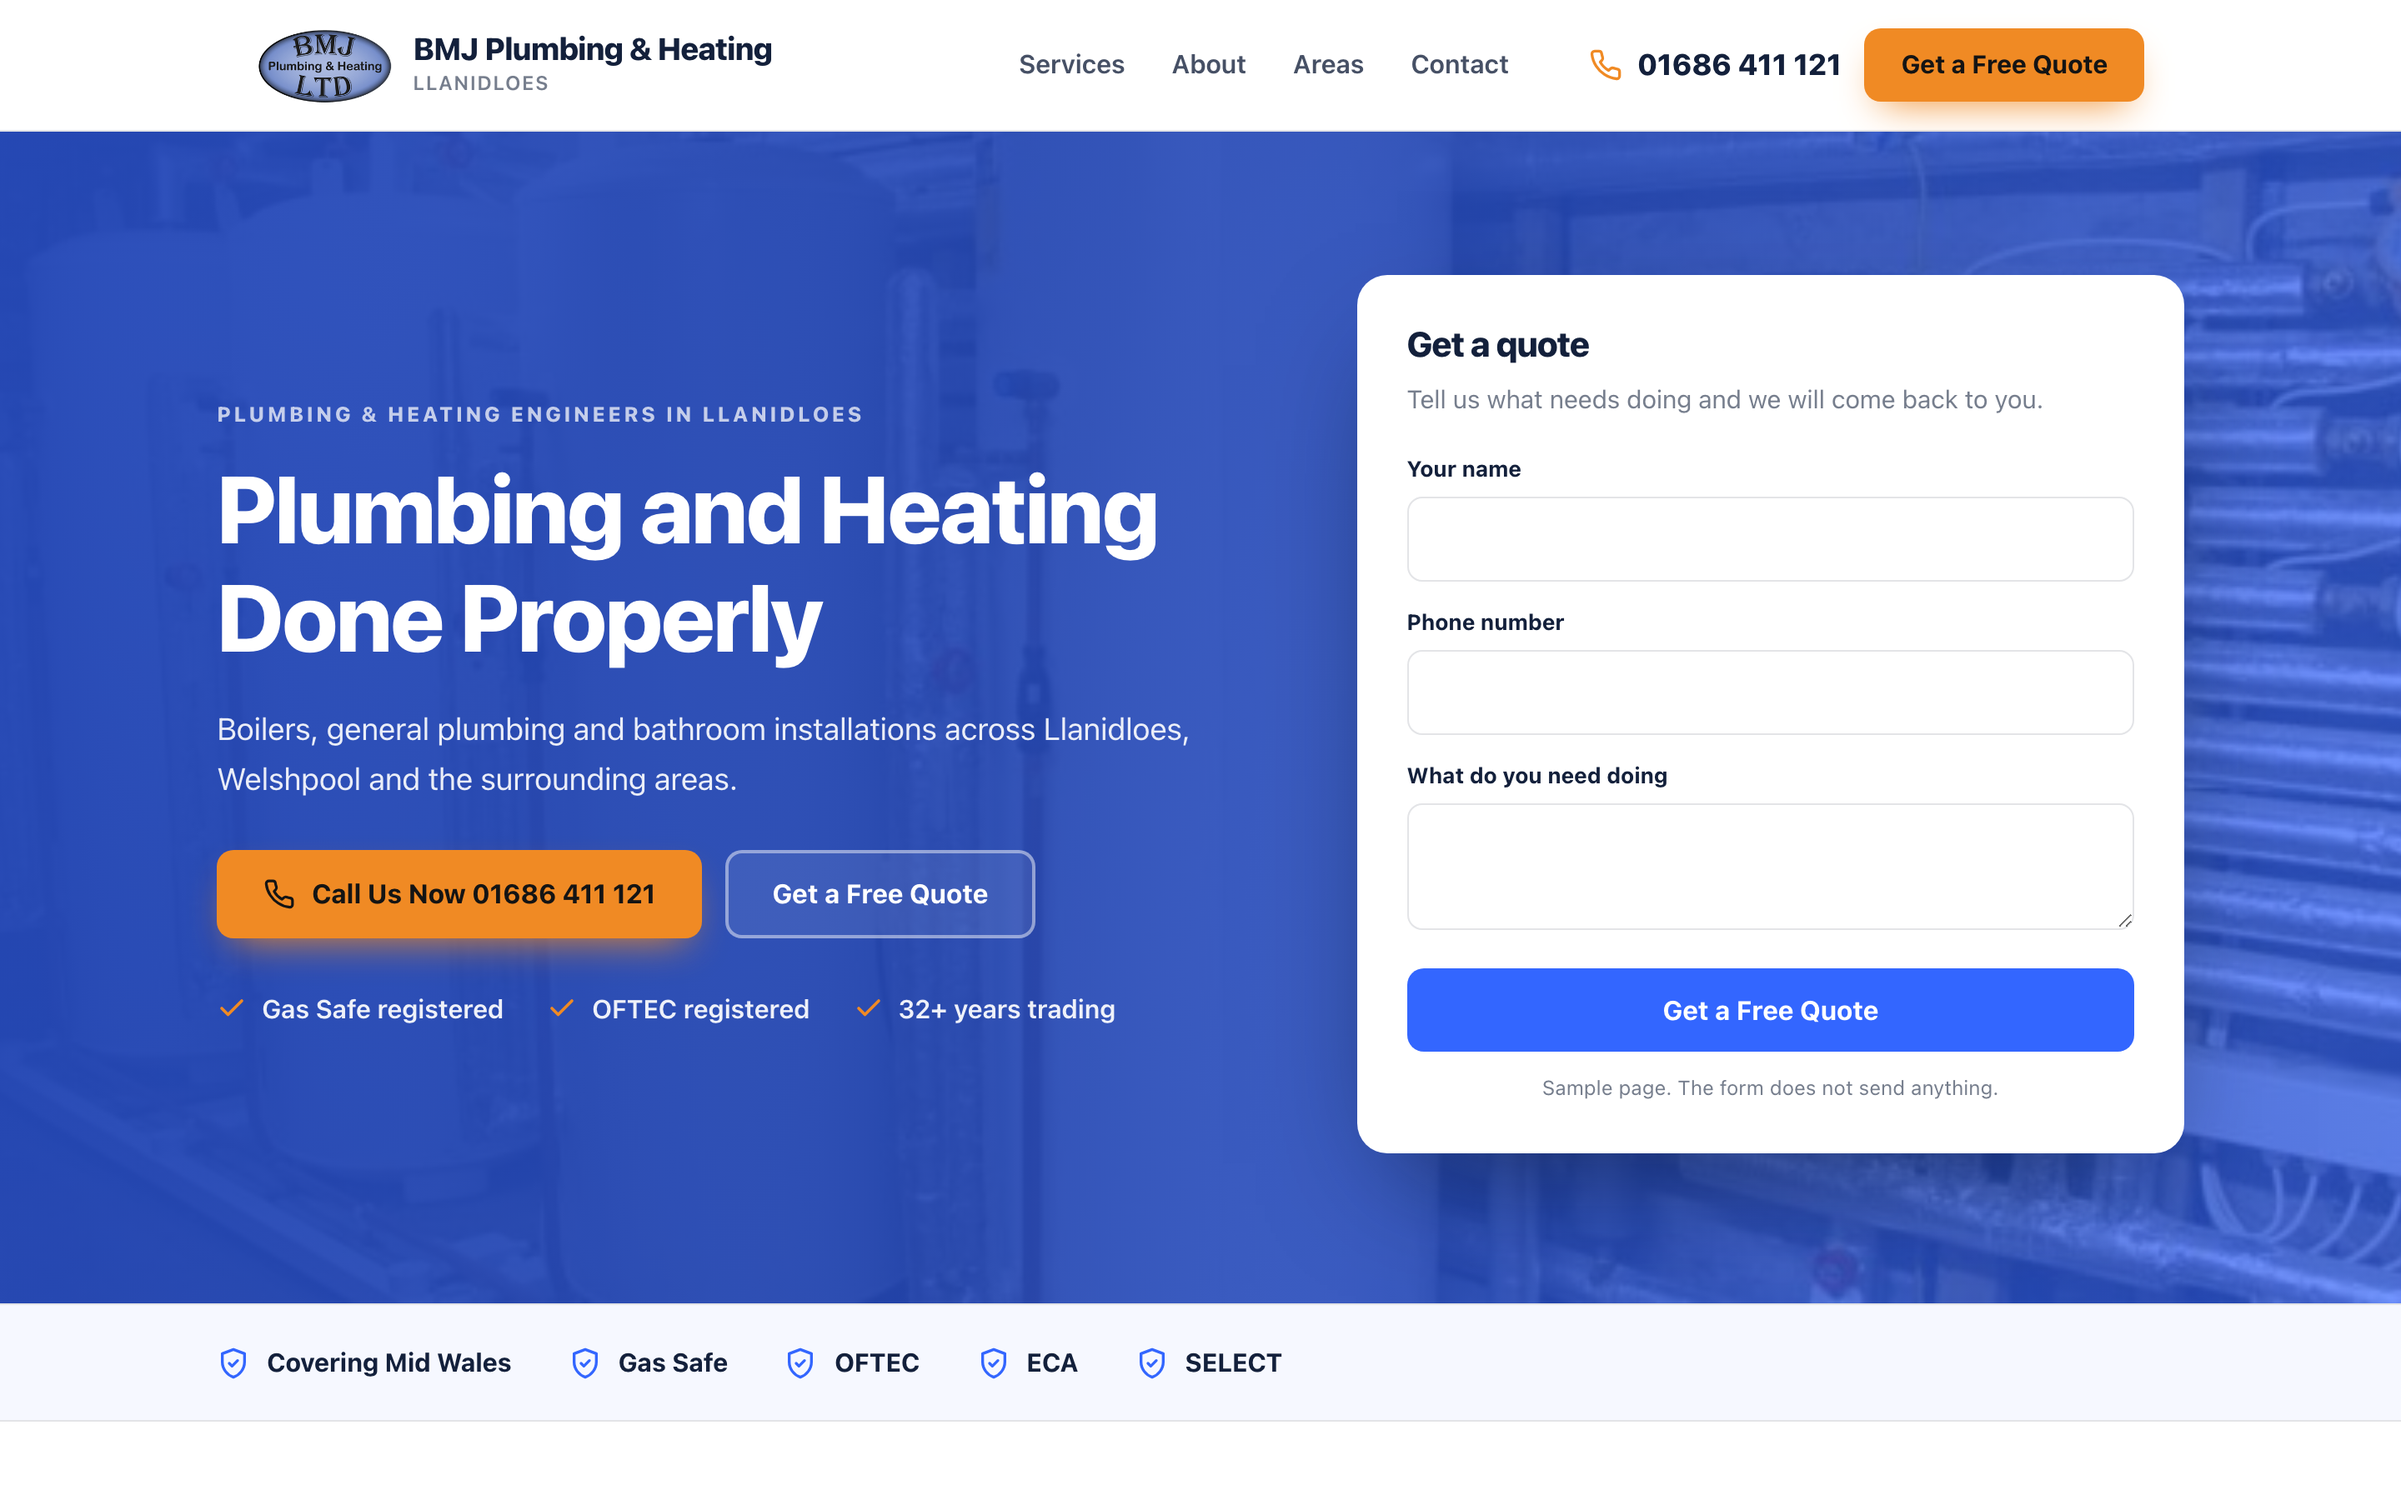
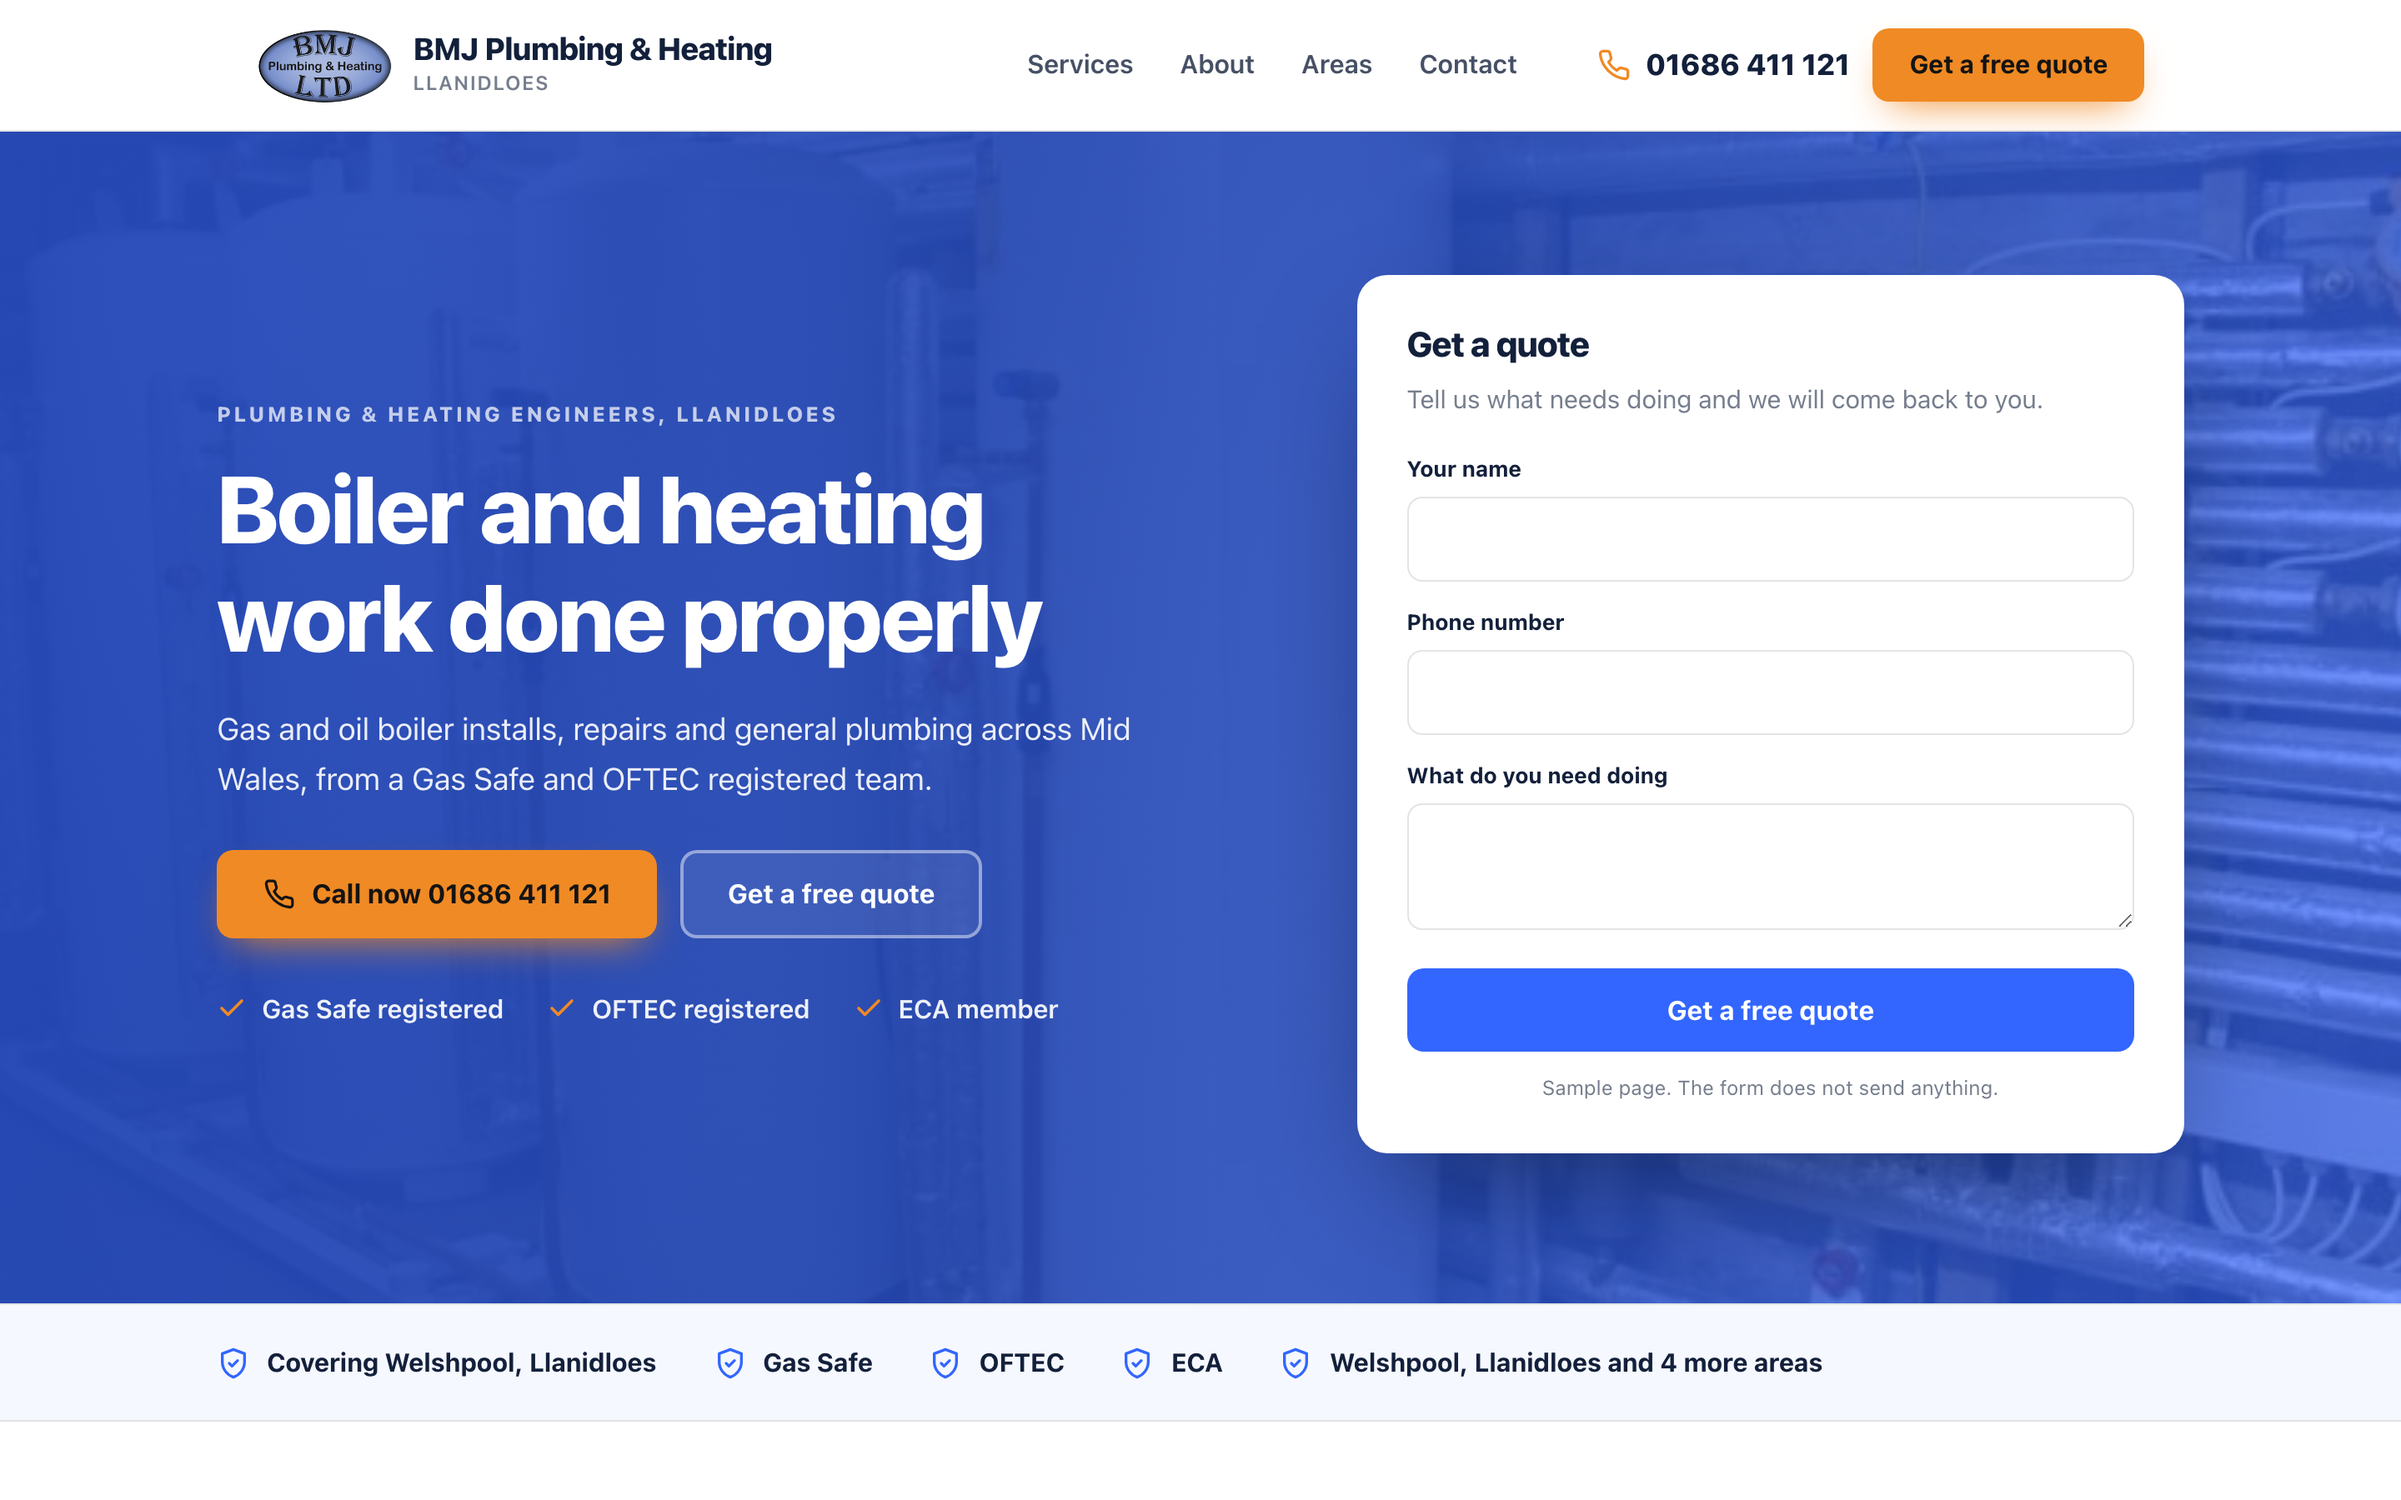
Sample homepage for BMJ Plumbing & Heating

diff --git a/docs/ce2e7be952/index.html b/docs/ce2e7be952/index.html
@@ -6,11 +6,11 @@
 <meta name="robots" content="noindex,nofollow">
 <meta name="aso-build" content="">
 <title>BMJ Plumbing &amp; Heating sample homepage</title>
-<meta name="description" content="Boilers, general plumbing and bathroom installations across Llanidloes, Welshpool and the surrounding areas.">
+<meta name="description" content="Gas and oil boiler installs, repairs and general plumbing across Mid Wales, from a Gas Safe and OFTEC registered team.">
 <link rel="canonical" href="https://markygff.github.io/aso-mockups/ce2e7be952/">
 <meta property="og:type" content="website">
 <meta property="og:title" content="BMJ Plumbing &amp; Heating sample homepage">
-<meta property="og:description" content="Boilers, general plumbing and bathroom installations across Llanidloes, Welshpool and the surrounding areas.">
+<meta property="og:description" content="Gas and oil boiler installs, repairs and general plumbing across Mid Wales, from a Gas Safe and OFTEC registered team.">
 <meta property="og:url" content="https://markygff.github.io/aso-mockups/ce2e7be952/">
 <meta property="og:image" content="img/p01.jpg"><style>
 :root{
@@ -130,7 +130,7 @@ p{margin:0}
     </nav>
     <div class="header-cta">
       <a class="tel" href="tel:+441686411121"><svg viewBox="0 0 24 24" fill="none" stroke="currentColor" stroke-width="2" stroke-linecap="round" stroke-linejoin="round" aria-hidden="true"><path d="M22 16.9v3a2 2 0 0 1-2.2 2 19.8 19.8 0 0 1-8.6-3.1 19.5 19.5 0 0 1-6-6 19.8 19.8 0 0 1-3.1-8.7A2 2 0 0 1 4.1 2h3a2 2 0 0 1 2 1.7c.1 1 .4 1.9.7 2.8a2 2 0 0 1-.5 2.1L8.1 9.9a16 16 0 0 0 6 6l1.3-1.2a2 2 0 0 1 2.1-.5c.9.3 1.8.6 2.8.7a2 2 0 0 1 1.7 2z"/></svg><span>01686 411 121</span></a>
-      <span class="btn btn-accent">Get a Free Quote</span>
+      <span class="btn btn-accent">Get a free quote</span>
     </div>
   </div>
 </header>
@@ -139,15 +139,15 @@ p{margin:0}
   <div class="hero-bg"><img src="img/p01.jpg" alt="Plumbing" width="1600" height="900"></div>
   <div class="wrap hero-in">
     <div>
-      <p class="eyebrow">Plumbing &amp; Heating Engineers in Llanidloes</p>
-      <h1>Plumbing and Heating Done Properly</h1>
-      <p class="hero-sub">Boilers, general plumbing and bathroom installations across Llanidloes, Welshpool and the surrounding areas.</p>
+      <p class="eyebrow">Plumbing &amp; heating engineers, Llanidloes</p>
+      <h1>Boiler and heating work done properly</h1>
+      <p class="hero-sub">Gas and oil boiler installs, repairs and general plumbing across Mid Wales, from a Gas Safe and OFTEC registered team.</p>
       <div class="hero-actions">
-        <span class="btn btn-accent"><svg viewBox="0 0 24 24" fill="none" stroke="currentColor" stroke-width="2" stroke-linecap="round" stroke-linejoin="round" aria-hidden="true"><path d="M22 16.9v3a2 2 0 0 1-2.2 2 19.8 19.8 0 0 1-8.6-3.1 19.5 19.5 0 0 1-6-6 19.8 19.8 0 0 1-3.1-8.7A2 2 0 0 1 4.1 2h3a2 2 0 0 1 2 1.7c.1 1 .4 1.9.7 2.8a2 2 0 0 1-.5 2.1L8.1 9.9a16 16 0 0 0 6 6l1.3-1.2a2 2 0 0 1 2.1-.5c.9.3 1.8.6 2.8.7a2 2 0 0 1 1.7 2z"/></svg>Call Us Now 01686 411 121</span>
-        <span class="btn btn-ghost">Get a Free Quote</span>
+        <span class="btn btn-accent"><svg viewBox="0 0 24 24" fill="none" stroke="currentColor" stroke-width="2" stroke-linecap="round" stroke-linejoin="round" aria-hidden="true"><path d="M22 16.9v3a2 2 0 0 1-2.2 2 19.8 19.8 0 0 1-8.6-3.1 19.5 19.5 0 0 1-6-6 19.8 19.8 0 0 1-3.1-8.7A2 2 0 0 1 4.1 2h3a2 2 0 0 1 2 1.7c.1 1 .4 1.9.7 2.8a2 2 0 0 1-.5 2.1L8.1 9.9a16 16 0 0 0 6 6l1.3-1.2a2 2 0 0 1 2.1-.5c.9.3 1.8.6 2.8.7a2 2 0 0 1 1.7 2z"/></svg>Call now 01686 411 121</span>
+        <span class="btn btn-ghost">Get a free quote</span>
       </div>
       <ul class="hero-bullets">
-<li><svg viewBox="0 0 24 24" fill="none" stroke="currentColor" stroke-width="2.4" stroke-linecap="round" stroke-linejoin="round" aria-hidden="true"><path d="M20 6 9 17l-5-5"/></svg><span>Gas Safe registered</span></li><li><svg viewBox="0 0 24 24" fill="none" stroke="currentColor" stroke-width="2.4" stroke-linecap="round" stroke-linejoin="round" aria-hidden="true"><path d="M20 6 9 17l-5-5"/></svg><span>OFTEC registered</span></li><li><svg viewBox="0 0 24 24" fill="none" stroke="currentColor" stroke-width="2.4" stroke-linecap="round" stroke-linejoin="round" aria-hidden="true"><path d="M20 6 9 17l-5-5"/></svg><span>32+ years trading</span></li>      </ul>
+<li><svg viewBox="0 0 24 24" fill="none" stroke="currentColor" stroke-width="2.4" stroke-linecap="round" stroke-linejoin="round" aria-hidden="true"><path d="M20 6 9 17l-5-5"/></svg><span>Gas Safe registered</span></li><li><svg viewBox="0 0 24 24" fill="none" stroke="currentColor" stroke-width="2.4" stroke-linecap="round" stroke-linejoin="round" aria-hidden="true"><path d="M20 6 9 17l-5-5"/></svg><span>OFTEC registered</span></li><li><svg viewBox="0 0 24 24" fill="none" stroke="currentColor" stroke-width="2.4" stroke-linecap="round" stroke-linejoin="round" aria-hidden="true"><path d="M20 6 9 17l-5-5"/></svg><span>ECA member</span></li>      </ul>
     </div>
     <div class="quote-card">
       <h3>Get a quote</h3>
@@ -155,7 +155,7 @@ p{margin:0}
       <div class="field"><label>Your name</label><input type="text" disabled></div>
       <div class="field"><label>Phone number</label><input type="tel" disabled></div>
       <div class="field"><label>What do you need doing</label><textarea disabled></textarea></div>
-      <span class="btn btn-primary">Get a Free Quote</span>
+      <span class="btn btn-primary">Get a free quote</span>
       <p class="sample-note">Sample page. The form does not send anything.</p>
     </div>
   </div>
@@ -163,11 +163,11 @@ p{margin:0}
 
 <div class="strip">
   <div class="wrap strip-in">
-    <div class="strip-item"><svg viewBox="0 0 24 24" fill="none" stroke="currentColor" stroke-width="2" stroke-linecap="round" stroke-linejoin="round" aria-hidden="true"><path d="M12 2 4 5v6c0 5 3.4 9.4 8 11 4.6-1.6 8-6 8-11V5z"/><path d="m9 12 2 2 4-4"/></svg><span>Covering Mid Wales</span></div>
+    <div class="strip-item"><svg viewBox="0 0 24 24" fill="none" stroke="currentColor" stroke-width="2" stroke-linecap="round" stroke-linejoin="round" aria-hidden="true"><path d="M12 2 4 5v6c0 5 3.4 9.4 8 11 4.6-1.6 8-6 8-11V5z"/><path d="m9 12 2 2 4-4"/></svg><span>Covering Welshpool, Llanidloes</span></div>
     <div class="strip-item"><svg viewBox="0 0 24 24" fill="none" stroke="currentColor" stroke-width="2" stroke-linecap="round" stroke-linejoin="round" aria-hidden="true"><path d="M12 2 4 5v6c0 5 3.4 9.4 8 11 4.6-1.6 8-6 8-11V5z"/><path d="m9 12 2 2 4-4"/></svg><span>Gas Safe</span></div>
     <div class="strip-item"><svg viewBox="0 0 24 24" fill="none" stroke="currentColor" stroke-width="2" stroke-linecap="round" stroke-linejoin="round" aria-hidden="true"><path d="M12 2 4 5v6c0 5 3.4 9.4 8 11 4.6-1.6 8-6 8-11V5z"/><path d="m9 12 2 2 4-4"/></svg><span>OFTEC</span></div>
     <div class="strip-item"><svg viewBox="0 0 24 24" fill="none" stroke="currentColor" stroke-width="2" stroke-linecap="round" stroke-linejoin="round" aria-hidden="true"><path d="M12 2 4 5v6c0 5 3.4 9.4 8 11 4.6-1.6 8-6 8-11V5z"/><path d="m9 12 2 2 4-4"/></svg><span>ECA</span></div>
-    <div class="strip-item"><svg viewBox="0 0 24 24" fill="none" stroke="currentColor" stroke-width="2" stroke-linecap="round" stroke-linejoin="round" aria-hidden="true"><path d="M12 2 4 5v6c0 5 3.4 9.4 8 11 4.6-1.6 8-6 8-11V5z"/><path d="m9 12 2 2 4-4"/></svg><span>SELECT</span></div>
+    <div class="strip-item"><svg viewBox="0 0 24 24" fill="none" stroke="currentColor" stroke-width="2" stroke-linecap="round" stroke-linejoin="round" aria-hidden="true"><path d="M12 2 4 5v6c0 5 3.4 9.4 8 11 4.6-1.6 8-6 8-11V5z"/><path d="m9 12 2 2 4-4"/></svg><span>Welshpool, Llanidloes and 4 more areas</span></div>
   </div>
 </div>
 
@@ -176,7 +176,7 @@ p{margin:0}
     <div class="services-head">
       <p class="eyebrow">What we do</p>
       <h2>BMJ Plumbing &amp; Heating, Llanidloes</h2>
-      <p>Boilers, general plumbing and bathroom installations across Llanidloes, Welshpool and the surrounding areas.</p>
+      <p>Gas and oil boiler installs, repairs and general plumbing across Mid Wales, from a Gas Safe and OFTEC registered team.</p>
     </div>
     <div class="grid">
       <article class="card">
@@ -186,18 +186,18 @@ p{margin:0}
       </article>
       <article class="card">
         <div class="icon"><svg viewBox="0 0 24 24" fill="none" stroke="currentColor" stroke-width="2" stroke-linecap="round" stroke-linejoin="round" aria-hidden="true"><path d="M13 2 4 14h7l-1 8 9-12h-7z"/></svg></div>
-        <h3>General Plumbing</h3>
-        <p>All types of general plumbing work, sorted properly.</p>
+        <h3>Underfloor Heating</h3>
+        <p>Underfloor heating design and installation.</p>
       </article>
       <article class="card">
         <div class="icon"><svg viewBox="0 0 24 24" fill="none" stroke="currentColor" stroke-width="2" stroke-linecap="round" stroke-linejoin="round" aria-hidden="true"><path d="M3 10.5 12 3l9 7.5"/><path d="M5 9.5V21h14V9.5"/><path d="M10 21v-6h4v6"/></svg></div>
-        <h3>Bathrooms</h3>
-        <p>Full bathroom installations and refurbishments.</p>
+        <h3>General Plumbing</h3>
+        <p>General plumbing work for homes across the area.</p>
       </article>
       <article class="card">
         <div class="icon"><svg viewBox="0 0 24 24" fill="none" stroke="currentColor" stroke-width="2" stroke-linecap="round" stroke-linejoin="round" aria-hidden="true"><path d="M4 20 15 9"/><path d="m14 4 6 6-3 3-6-6z"/><path d="m3 15 6 6"/></svg></div>
         <h3>Hot Water Cylinders</h3>
-        <p>Hot water cylinder fitting and repairs.</p>
+        <p>Hot water cylinder supply and installation.</p>
       </article>
     </div>
   </div>
